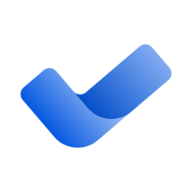
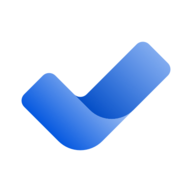
Minor layout improvement

diff --git a/js/tags/othermodals.js b/js/tags/othermodals.js
@@ -7,7 +7,7 @@ class StartModal extends HTMLElement {
                     <div class="box">
                         <div class="width-is-two-thirds">
                             <div id="openedc-title">
-                                <figure class="image is-64x64 mr-3">
+                                <figure class="image mr-3">
                                     <img src="./img/title-logo.png">
                                 </figure>
                                 <div>

diff --git a/css/style.css b/css/style.css
@@ -23,6 +23,11 @@ html, body {
     margin-bottom: 20px;
 }
 
+#openedc-title .image {
+    width: 72px;
+    height: 72px;
+}
+
 .section {
     padding: 30px 20px;
 }
